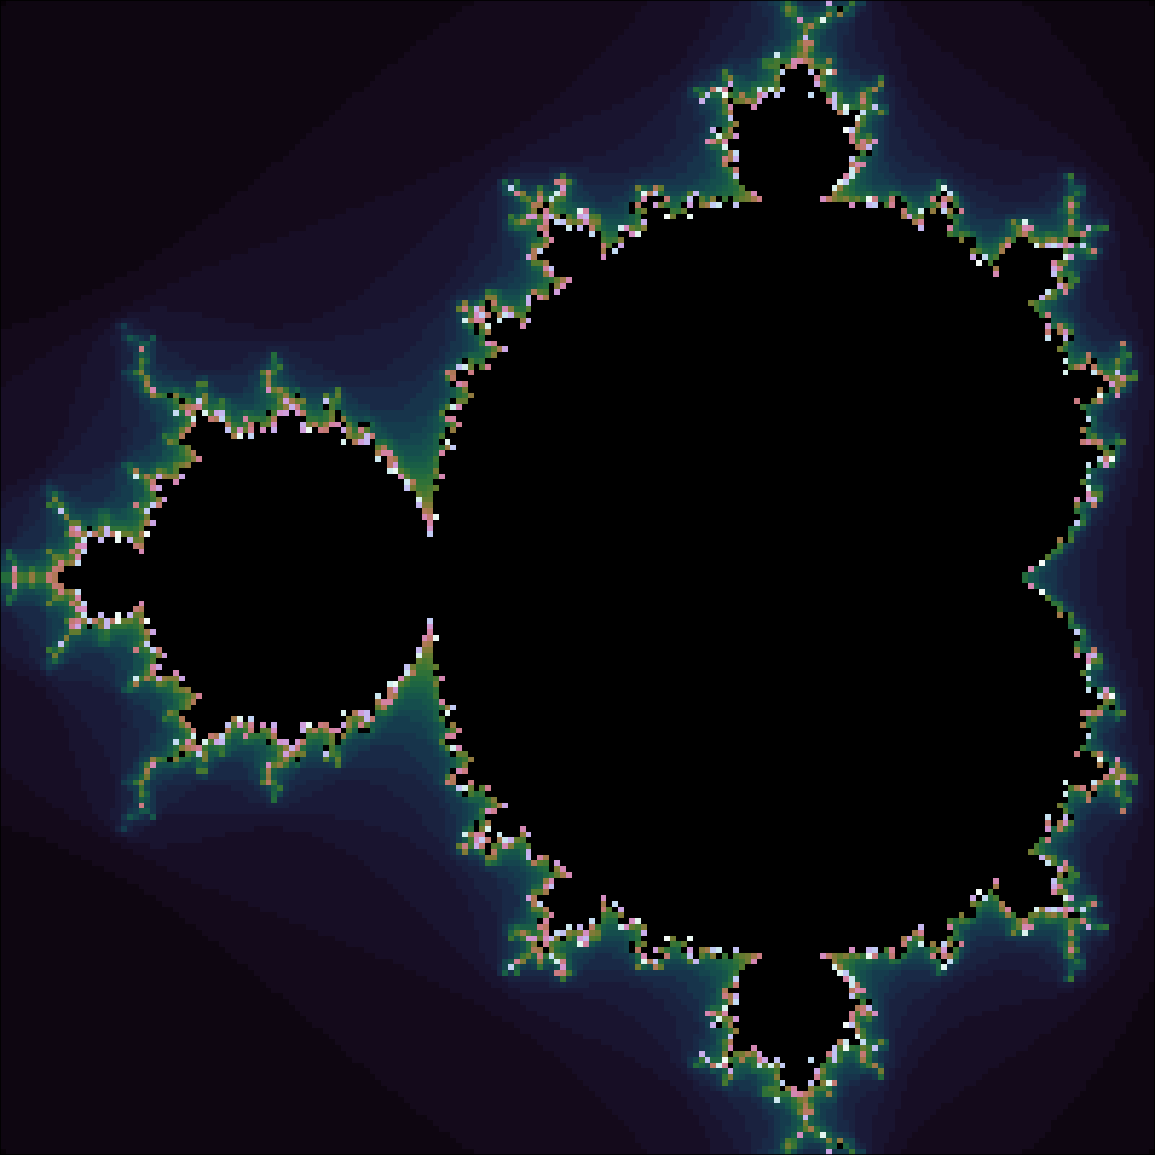
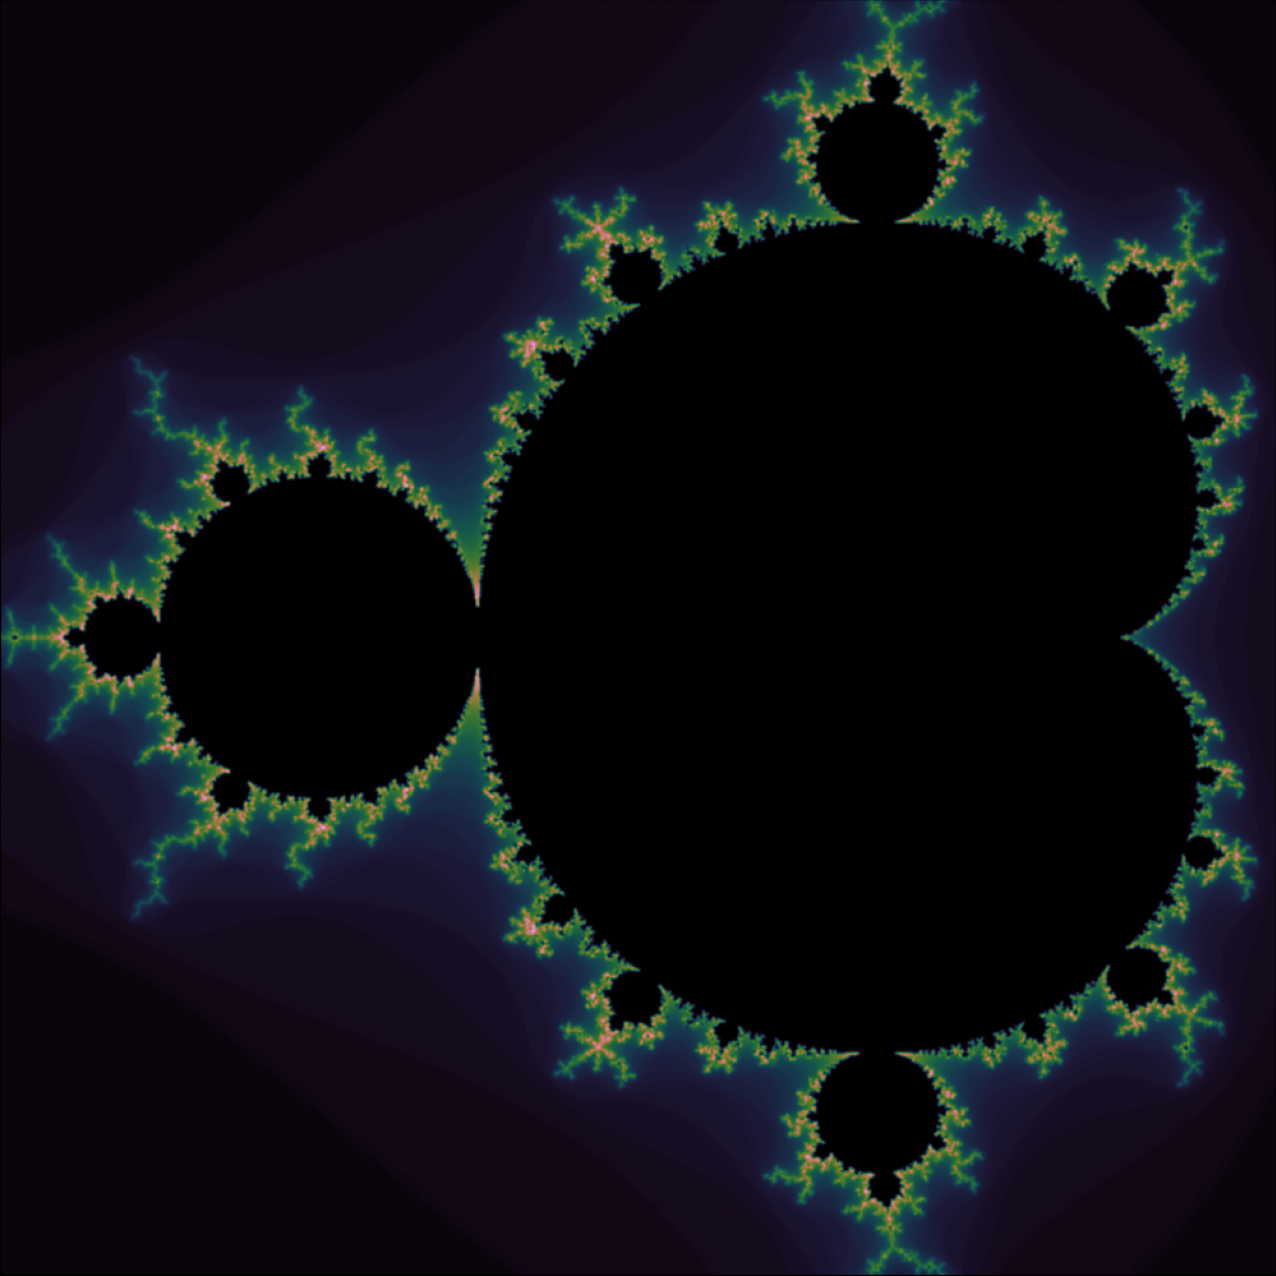
working with scipy

Changed region(s): [[0.0, 0.0, 0.9974, 1.0]]

diff --git a/functions/mandelbrot/mandelbrot.py b/functions/mandelbrot/mandelbrot.py
@@ -24,14 +24,14 @@ def sample_area(real_start, real_end, imag_start, image_end, max_iters, width, h
 
 
 def create_image(real_start, real_end, imag_start, image_end, max_iters, width, height,
-                 cmap="cubehelix", figsize=(8, 8), dpi=224, sigma=10.):
+                 cmap="cubehelix", figsize=(6, 6), dpi=224, sigma=1.):
     """
     Create a png and return it as a binary
     """
     array = sample_area(real_start, real_end, imag_start,
                         image_end, max_iters, width, height)
-    # if sigma != 0.:
-    #     array = gaussian_filter(array, sigma=sigma)
+    if sigma != 0.:
+        array = gaussian_filter(array, sigma=sigma)
     print(sigma)
     plt.subplots(figsize=figsize, dpi=dpi, frameon=False)
     plt.imshow(array, cmap=cmap, vmin=0., vmax=max_iters)

diff --git a/functions/mandelbrot/lambda.py b/functions/mandelbrot/lambda.py
@@ -38,7 +38,7 @@ def handler(event, context, verbose=True):
     rmin, rmax = real_centre-patch_size/2., real_centre+patch_size/2.
     imin, imax = imag_centre-patch_size/2., imag_centre+patch_size/2.
     max_iters = 64
-    width, height = 200, 200
+    width, height = 1000, 1000
     data = mandelbrot.create_image(
         rmin, rmax, imin, imax, max_iters, width, height)
 
